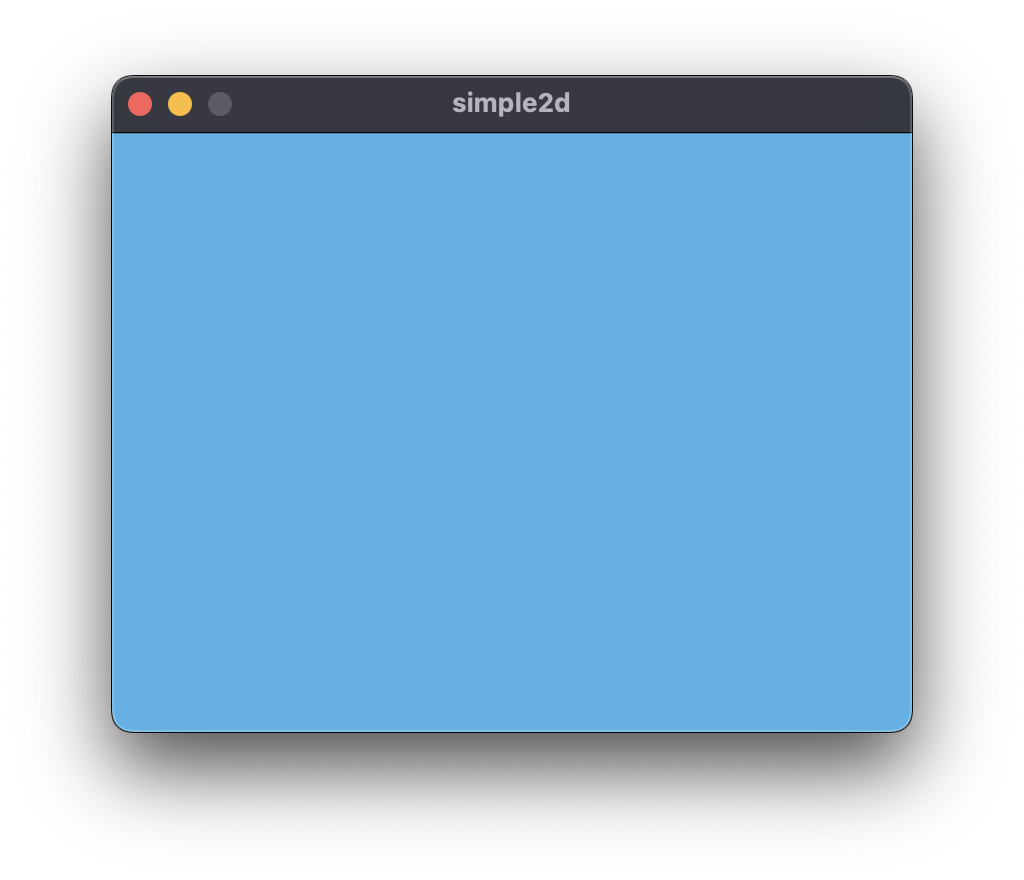
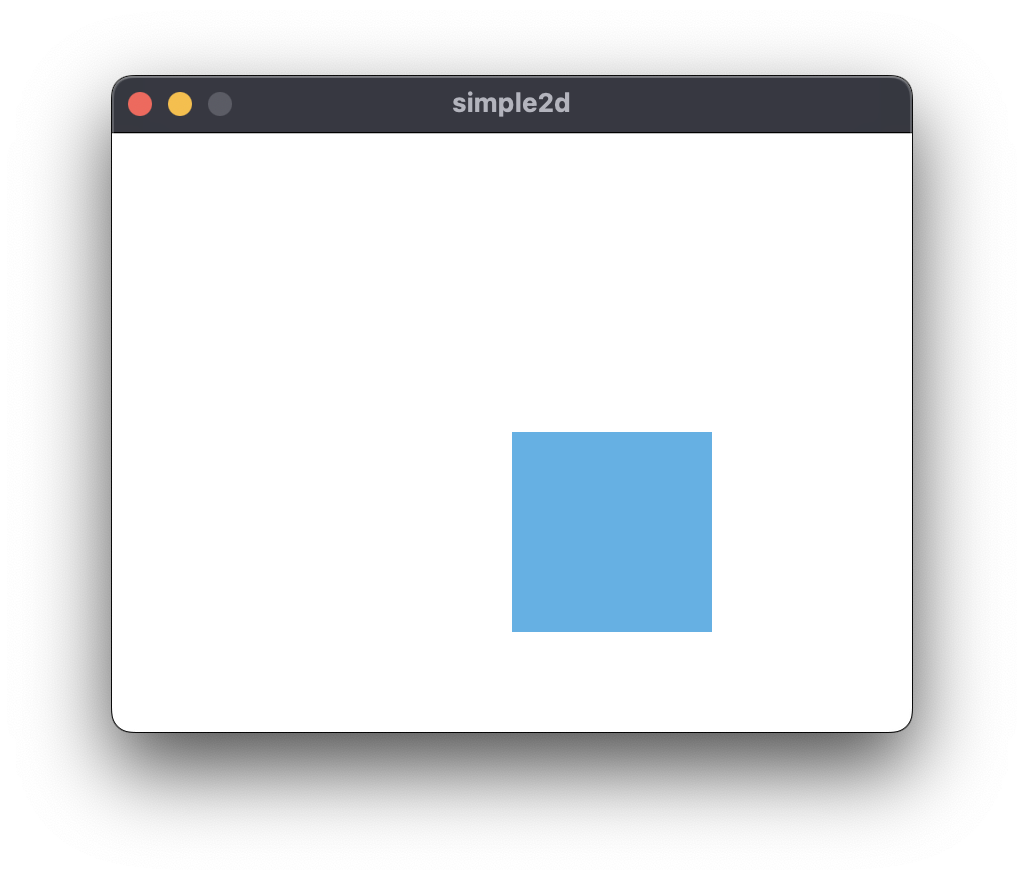
changed simple2d to create a box

diff --git a/examples/simple2d/src/main.rs b/examples/simple2d/src/main.rs
@@ -1,10 +1,14 @@
 use srgl::CanvasBuilder;
+use srgl::Shape;
+use nalgebra::Vector3;
+use srgl::Color;
 
 fn main() -> Result<(), srgl::Error> {
-    let canvas = CanvasBuilder::new()
+    CanvasBuilder::new()
         .with_title(String::from("simple2d"))
         .with_size(400, 300)
-        .build();
-
-    canvas.
+        .with_s2d(Shape::make_rect(Vector3::new(200., 150., 0.),
+                                   Vector3::new(300., 250., 0.),
+                                   Color::from([0x48, 0xb2, 0xe8, 0xff])))
+        .build().run()
 }

diff --git a/src/lib.rs b/src/lib.rs
@@ -1,5 +1,7 @@
 
 pub use pixels::Error;
+pub use crate::renderers::s2d::Shape;
+pub use crate::renderers::*;
 use renderers::{Renderer, Render};
 use renderers::s2d::S2D;
 use renderers::s3d::S3D;
@@ -10,7 +12,6 @@ use winit::event_loop::{ControlFlow, EventLoop};
 use winit::window::{Window, WindowBuilder};
 use winit::window::CursorIcon;
 use winit_input_helper::WinitInputHelper;
-use crate::renderers::s2d::Shape;
 
 mod renderers;
 

diff --git a/src/renderers/s2d.rs b/src/renderers/s2d.rs
@@ -37,7 +37,7 @@ impl S2D {
             width,
             height,
             time: 0,
-            background: Color::from([0x48, 0xb2, 0xe8, 0xff]),
+            background: Color::from([0xff, 0xff, 0xff, 0xff]),
         }
     }
 }
